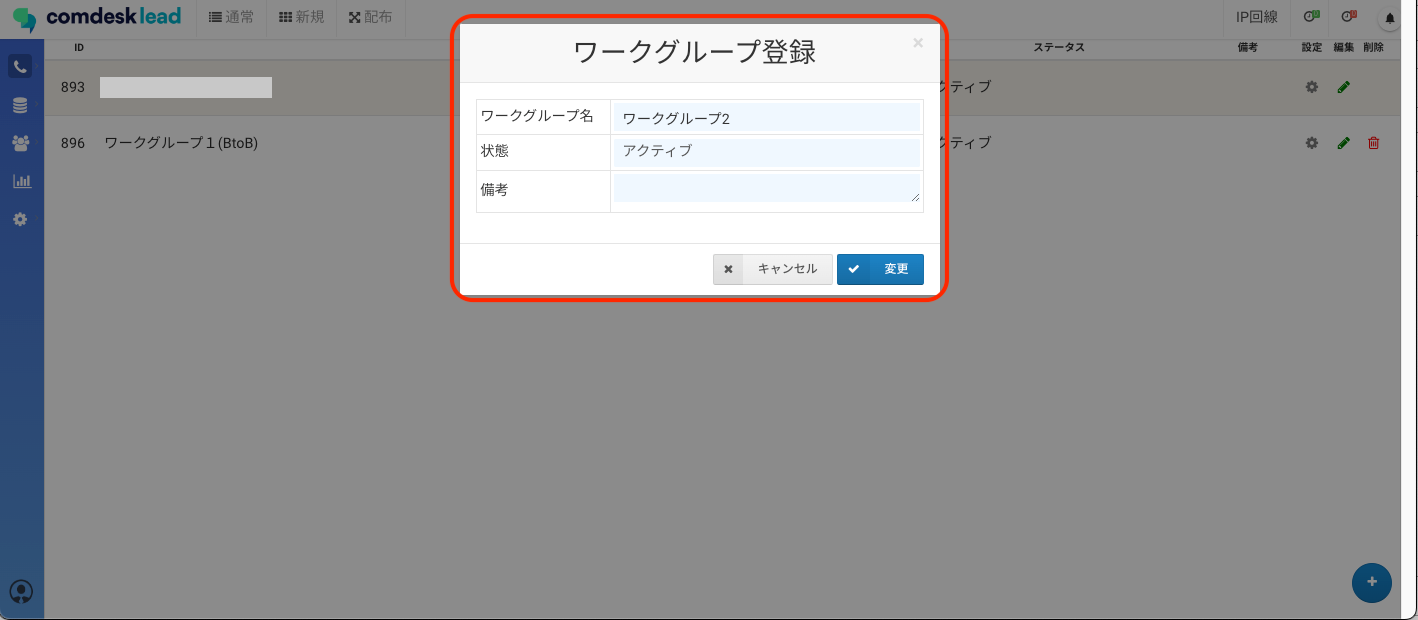
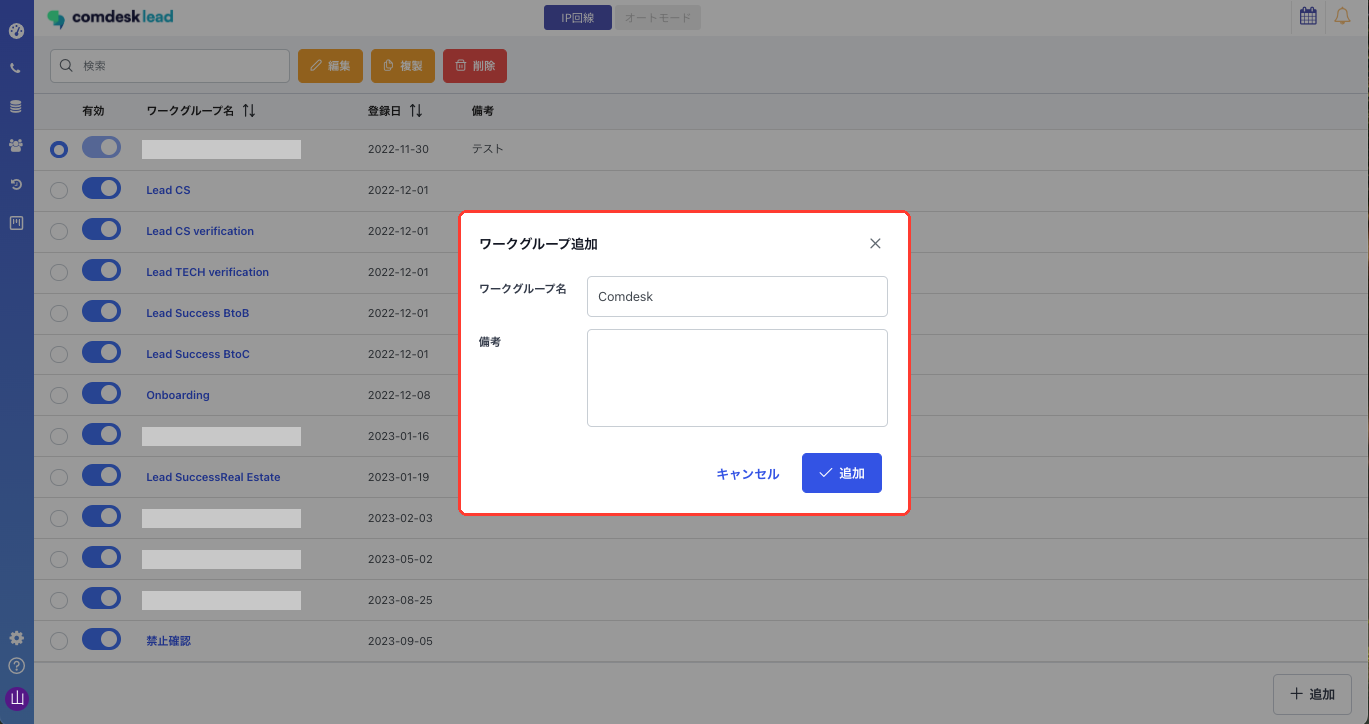
ワークグループ作成ページの画像と手順を新UIに更新

diff --git a/guide/admin/12736179273497.md b/guide/admin/12736179273497.md
@@ -18,28 +18,28 @@ description: "ワークグループ管理画面からワークグループを作
 
 <Steps>
   <Step title="「ワークグループ管理」を開く">
-    画面左側の「Manage」アイコンを選択し、「ワークグループ管理」をクリックします。
+    画面左下の歯車アイコン（Manage）を選択し、「ワークグループ管理」をクリックします。
 
     <Frame caption="Manageメニューのワークグループ管理">
       <img src="/.gitbook/assets/12736179273497_0.png" alt="Manageメニューで「ワークグループ管理」が示された画面" />
     </Frame>
   </Step>
-  <Step title="「＋」ボタンをクリックする">
-    ワークグループ管理画面が表示されたら、画面右下の「＋」ボタンをクリックします。
+  <Step title="「＋追加」ボタンをクリックする">
+    ワークグループ管理画面が表示されたら、画面右下の「＋追加」ボタンをクリックします。
 
     <Frame caption="ワークグループ管理画面">
-      <img src="/.gitbook/assets/12736179273497_1.png" alt="ワークグループ管理画面の右下にある＋ボタン" />
+      <img src="/.gitbook/assets/12736179273497_1.png" alt="ワークグループ管理画面の右下にある＋追加ボタン" />
     </Frame>
   </Step>
   <Step title="ワークグループ名を入力して登録する">
-    ワークグループ登録画面が表示されたら、ワークグループ名を入力し、「変更」ボタンをクリックします。
+    ワークグループ追加画面が表示されたら、ワークグループ名を入力し、「追加」ボタンをクリックします。必要に応じて備考も入力できます。
 
-    <Frame caption="ワークグループ登録画面">
-      <img src="/.gitbook/assets/12736179273497_2.png" alt="ワークグループ名・状態・備考の入力欄と変更ボタンがあるワークグループ登録画面" />
+    <Frame caption="ワークグループ追加画面">
+      <img src="/.gitbook/assets/12736179273497_2.png" alt="ワークグループ名・備考の入力欄と追加ボタンがあるワークグループ追加画面" />
     </Frame>
   </Step>
   <Step title="作成されたことを確認する">
-    ワークグループの作成が完了しました。
+    ワークグループの作成が完了しました。作成直後は「有効」のトグルがオンの状態で一覧に表示されます。
 
     <Frame caption="作成されたワークグループ">
       <img src="/.gitbook/assets/12736179273497_3.png" alt="ワークグループ一覧に新しいワークグループが追加された画面" />
